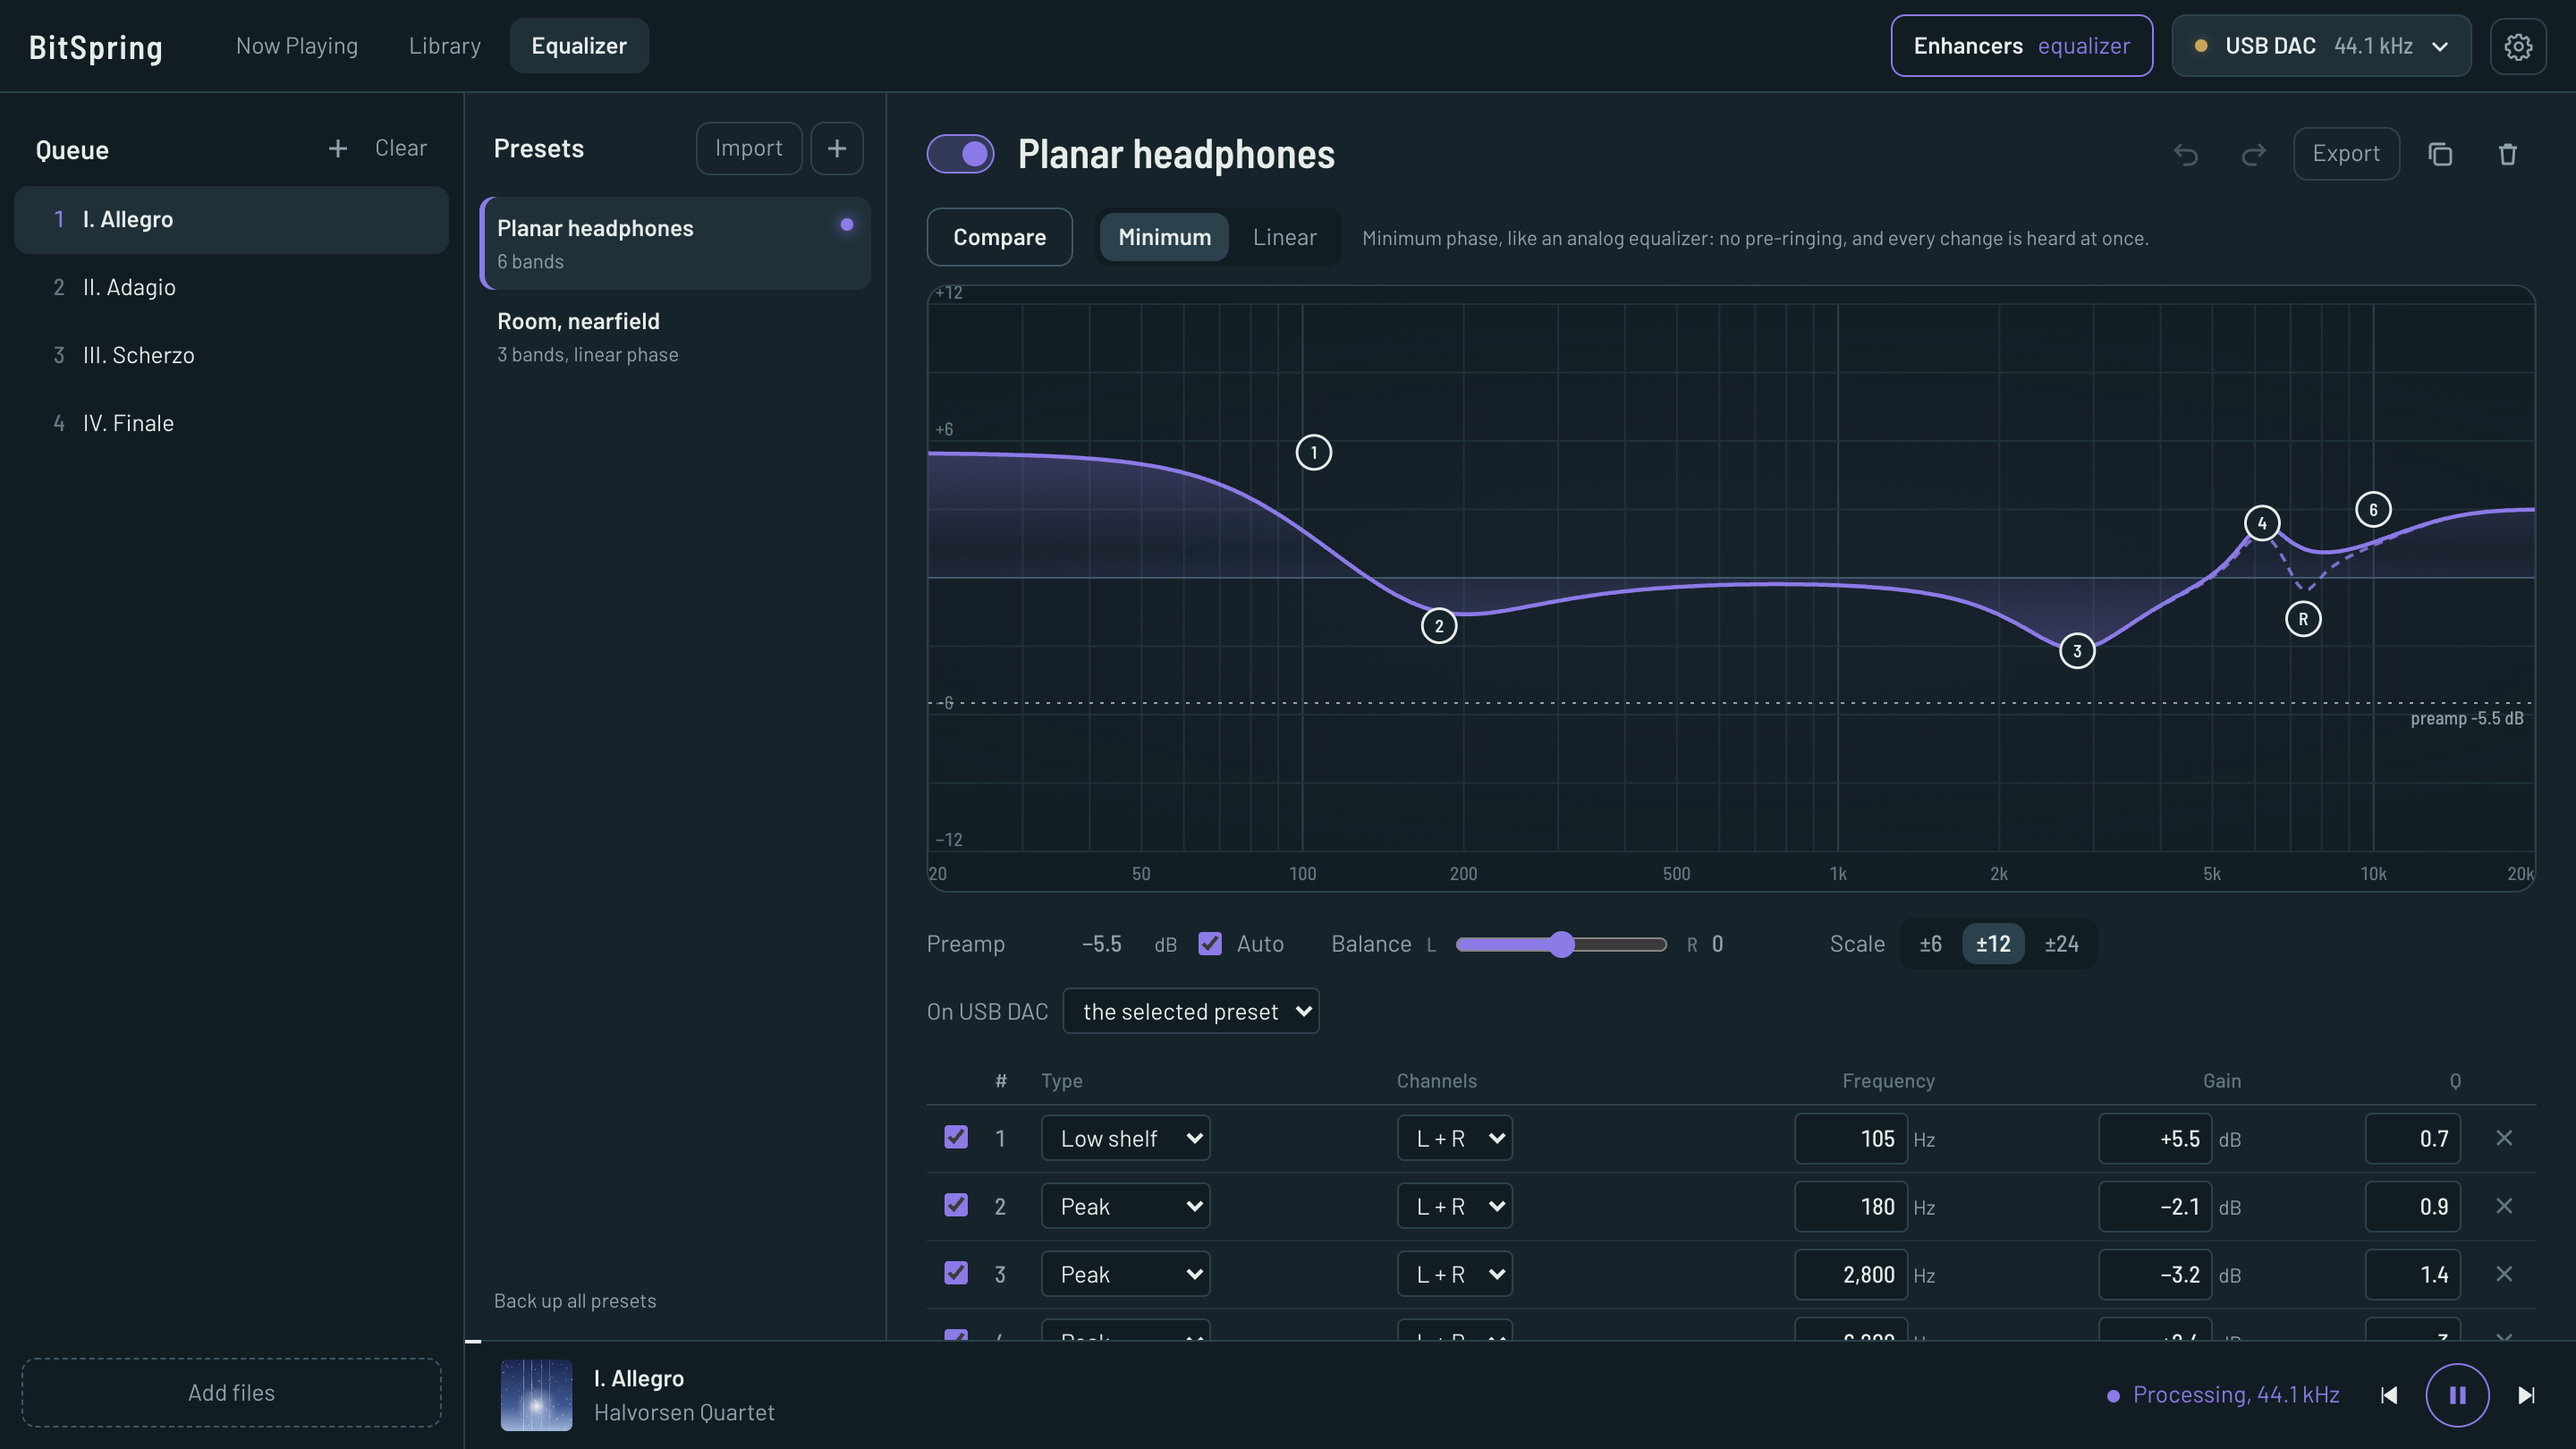
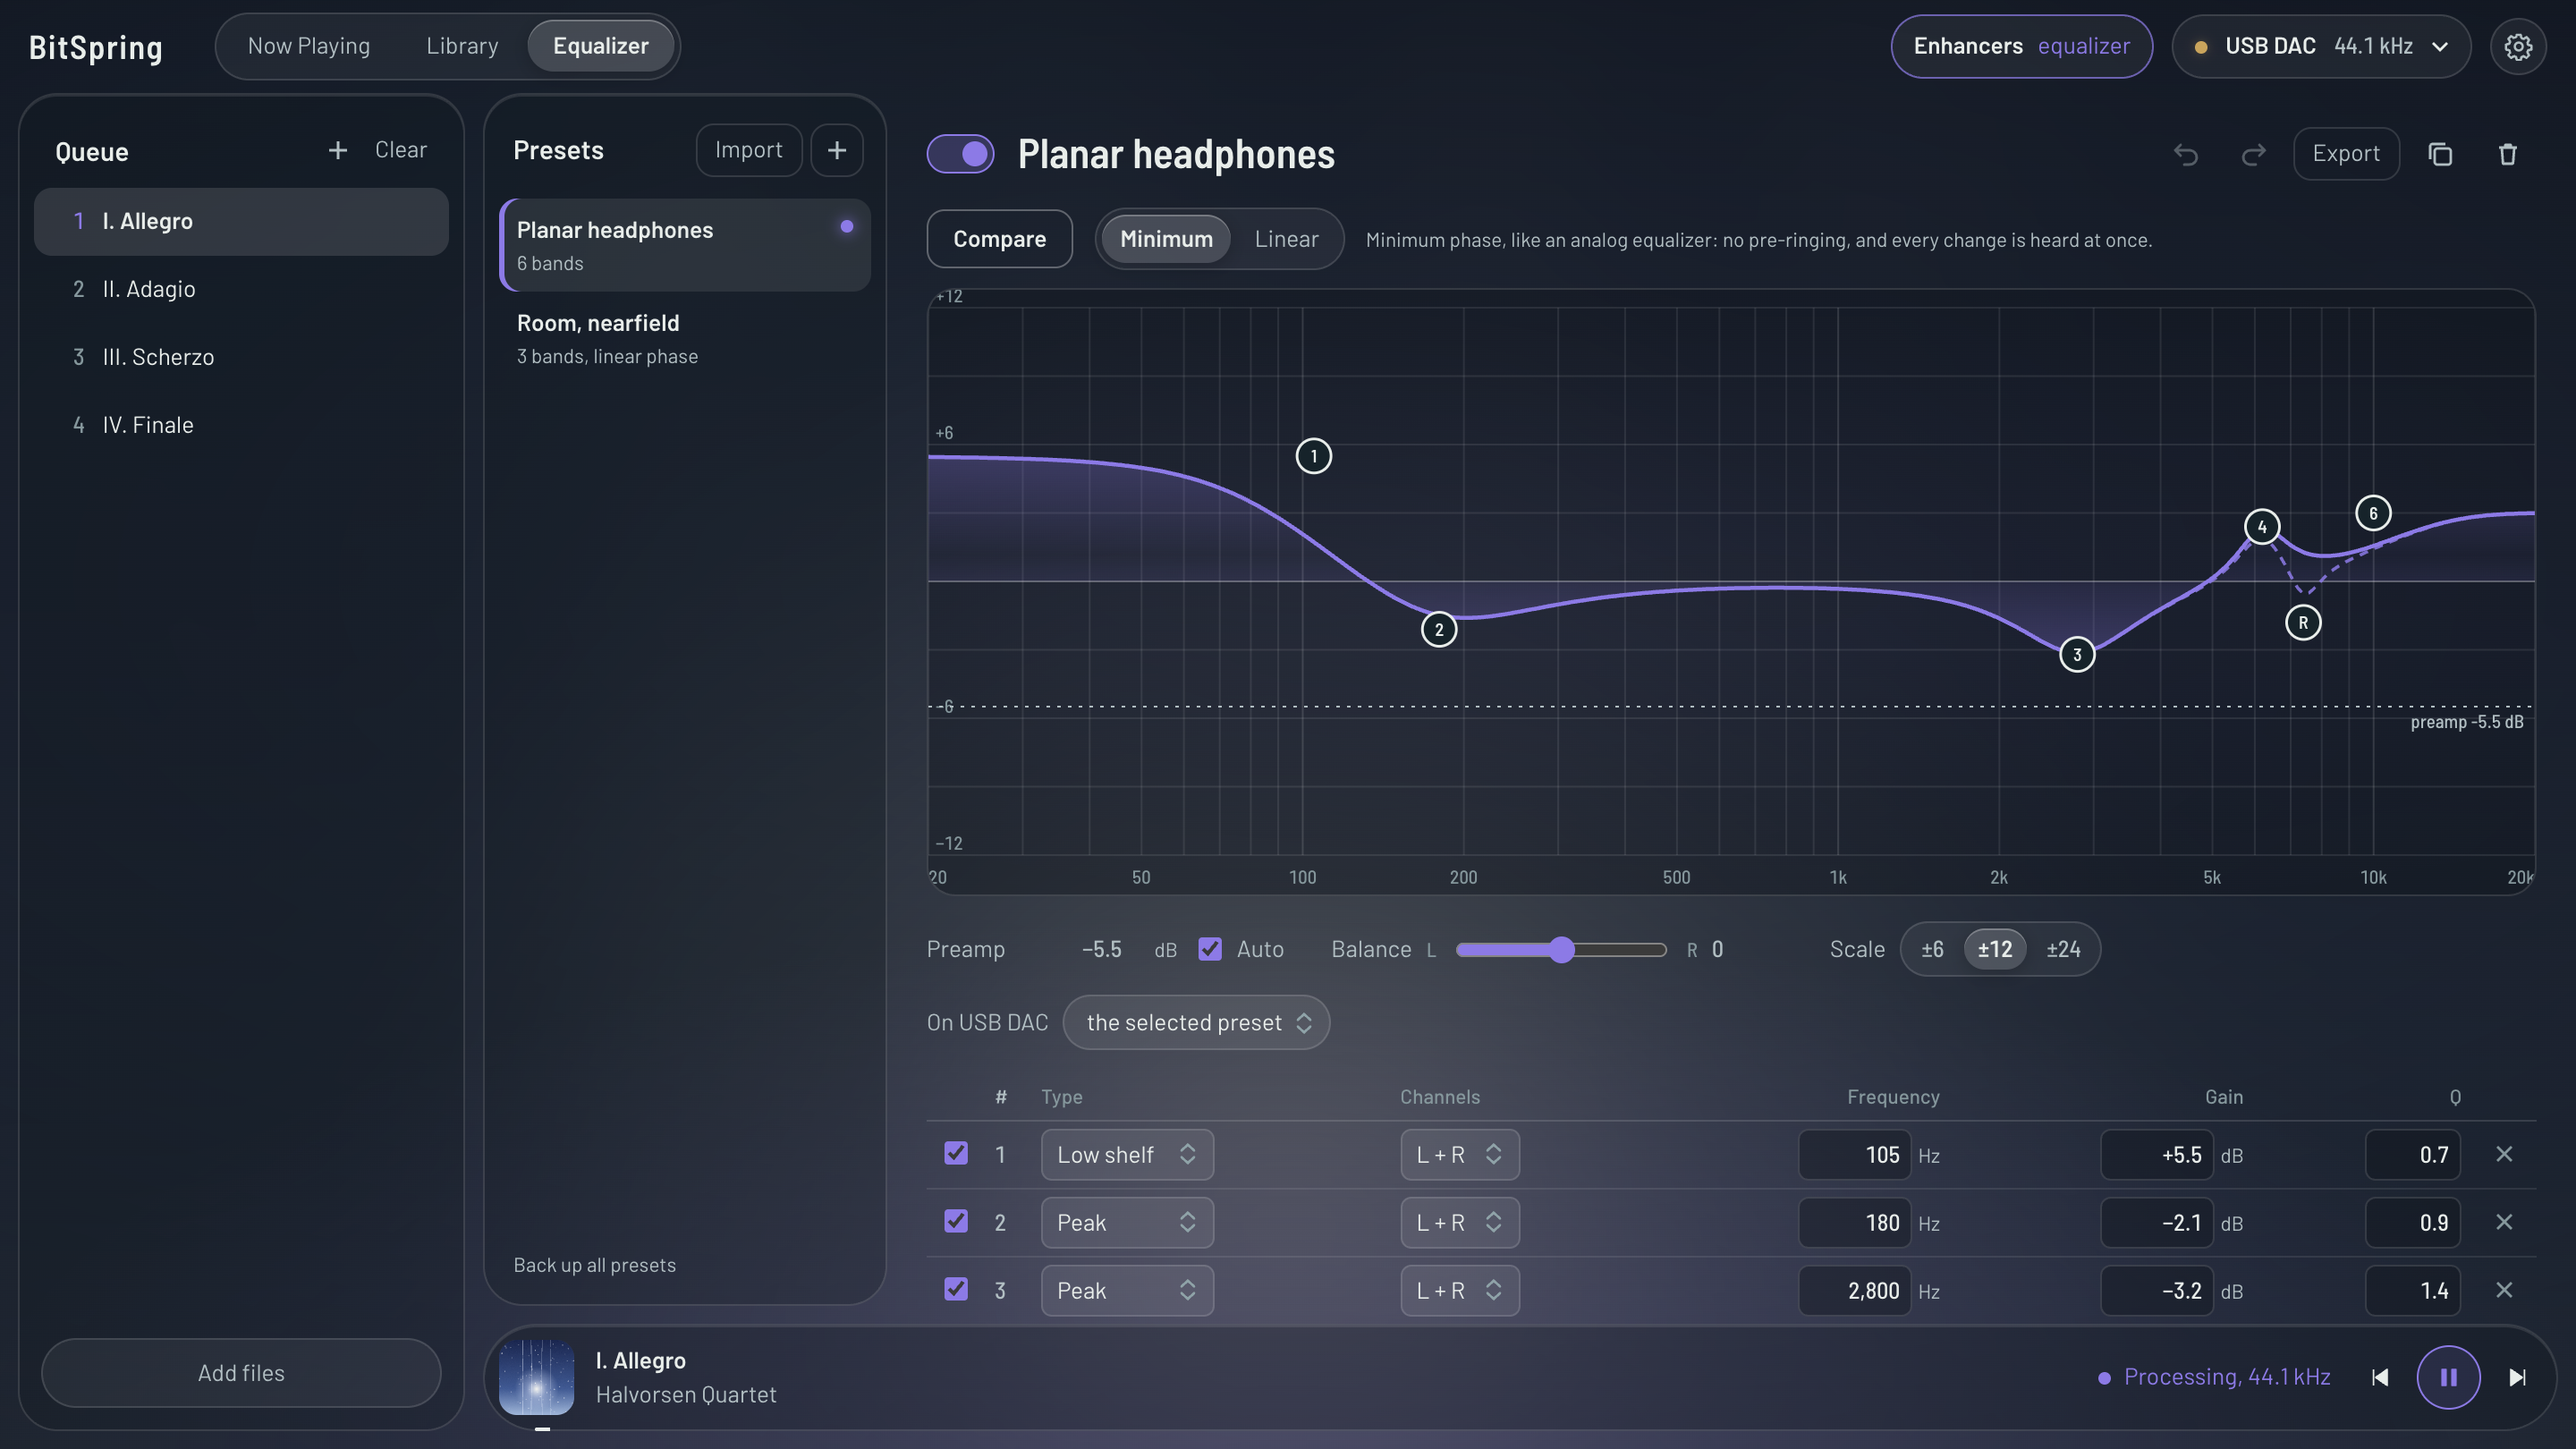
Microsoft Store screenshots in the glass look (#20)
The Windows listing still showed the classic look; glass has been the default everywhere since
0.18.2. Retaken from the 0.19.1 UI on the mock backend, same four screens and size.

diff --git a/apps/desktop/store/microsoft-store.md b/apps/desktop/store/microsoft-store.md
@@ -118,8 +118,10 @@ To try it: press "Add files" and pick some music files (FLAC, WAV, MP3 or AAC), 
 ### Images
 
 - Screenshots: `screenshots/windows`, four 2880 × 1620 PNGs (the Store takes 1366 × 768 and up,
-  1 to 10). Upload in name order. Retake after UI changes: `npm run dev`, then
-  `node scripts/store-screenshots.mjs windows`. They come from the mock backend dressed as the
+  1 to 10), in the glass look. The listing shows them as Bit-perfect playing, EQ, Processing,
+  Library. Retake after UI changes: `npm run dev`, then `node scripts/store-screenshots.mjs windows`.
+  To swap them in a later submission, each screenshot tile has its own file input: replacing in
+  place keeps the caption. They come from the mock backend dressed as the
   Store build (no streaming tab), and the album covers are our own abstract art
   (src/lib/mockCovers.ts): never use real album covers, they are other people's artwork.
 - Store logos (optional, for Windows 11 Store pages): 1:1 box art 1080 × 1080 and 2:3 poster
